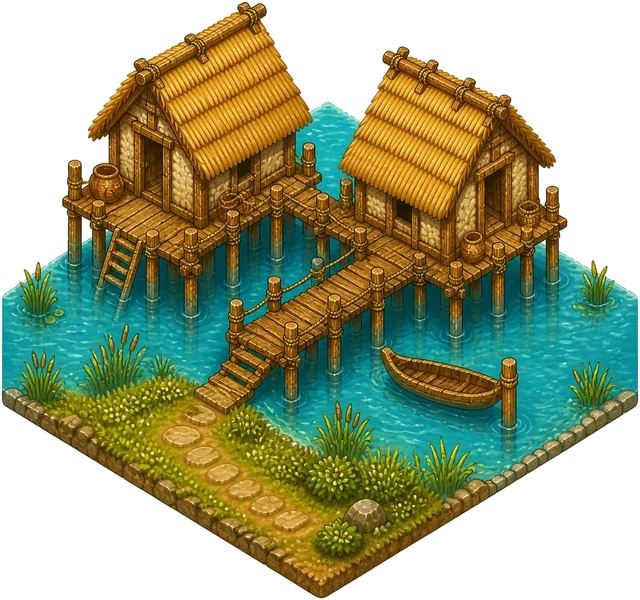
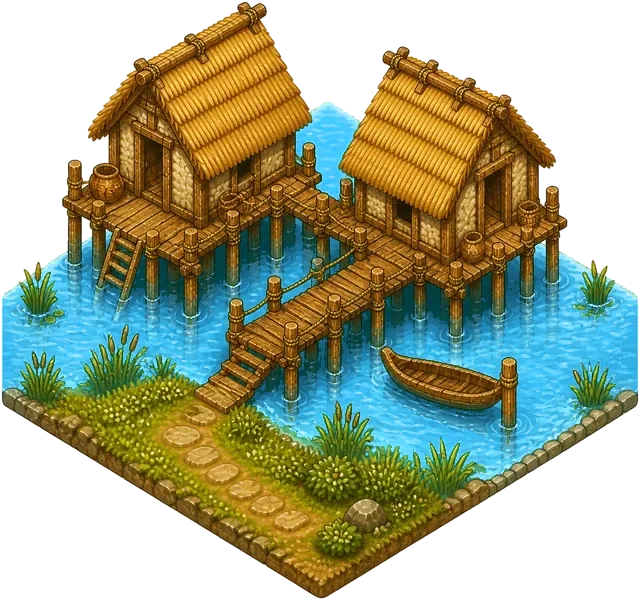
Epochia 131: Wasser in den Gebäudebildern hat die Farbe des Flusses (neu/tools/wasser-farbe.py)
Wunsch Emin: Pfahlbau, Tongrube, Lehmgrube, Zinnwäscherin und Fischerhaus
mit allen Drehungen und Winterbildern auf die Flussfarbe umgefärbt.

Claude-Session: https://claude.ai/code/session_01W1n1hdvEnuKJoocRNGs93d

Changed region(s): [[0.375, 0.39, 1.0, 0.81], [0.0, 0.36, 0.5312, 0.66], [0.4375, 0.15, 0.5625, 0.33]]

diff --git a/neu/index.html b/neu/index.html
@@ -3,7 +3,7 @@
 <head>
   <meta charset="UTF-8">
   <meta name="viewport" content="width=device-width, initial-scale=1, maximum-scale=1, user-scalable=no, viewport-fit=cover">
-  <meta name="app-version" content="130">
+  <meta name="app-version" content="131">
   <meta name="theme-color" content="#3d7a2a">
   <meta name="color-scheme" content="only light">
   <meta name="apple-mobile-web-app-capable" content="yes">

diff --git a/neu/js/daten.js b/neu/js/daten.js
@@ -2,7 +2,7 @@
 // Epochia – alle Spieldaten (Zahlen zum Feinjustieren stehen hier oben, die Logik liest nur daraus).
 // Pläne: docs/konzept-neu.md und docs/epoche-1-steinzeit.md
 
-const APP_VERSION = 130;
+const APP_VERSION = 131;
 
 const CONFIG = {
   mapSize: 512,           // Felder je Seite, zentral änderbar (Vielfaches von 16; 64 bis Version 21, 128 bis Version 54 – alte Karten liegen in der Mitte)

diff --git a/neu/service-worker.js b/neu/service-worker.js
@@ -1,6 +1,6 @@
 // Epochia – offline spielen. Bei Änderungen die Versionsnummer erhöhen (gleiche Nummer wie
 // APP_VERSION in js/daten.js und <meta name="app-version"> in index.html).
-const CACHE = 'v130';
+const CACHE = 'v131';
 const ASSETS = [
   './',
   'index.html',

diff --git a/neu/tools/wasser-farbe.py b/neu/tools/wasser-farbe.py
@@ -1,0 +1,40 @@
+# Epochia: Wasser in einem Gebäudebild an die Flussfarbe im Spiel angleichen (Wunsch Emin, 07.11.2026).
+# Färbt nur Pixel um, die wie Wasser aussehen (blau bis türkis, kräftig genug), und behält Hell-Dunkel und Glanzlichter.
+#   python3 neu/tools/wasser-farbe.py bilder/epochia/gebaeude/pfahlbau/1-pfahlbau.webp [weitere.webp …]
+# Zielfarbe ist der Mittelwert des Wassers in bilder/epochia/gelaende/wasser.webp.
+import sys, colorsys
+from PIL import Image
+
+TEXTUR = 'bilder/epochia/gelaende/wasser.webp'
+
+def ist_wasser(h, s, v):
+    return 0.43 <= h <= 0.62 and s >= 0.28 and v >= 0.30   # Farbton etwa 155°–225°
+
+def mittel(pixel):
+    n = len(pixel) or 1
+    return [sum(p[i] for p in pixel) / n for i in range(3)]
+
+def hsv_liste(im):
+    return [colorsys.rgb_to_hsv(r / 255, g / 255, b / 255) for r, g, b, a in im.getdata() if a > 200]
+
+ziel = mittel([p for p in hsv_liste(Image.open(TEXTUR).convert('RGBA')) if ist_wasser(*p)])
+
+for datei in sys.argv[1:]:
+    im = Image.open(datei).convert('RGBA')
+    px = im.load()
+    w, h = im.size
+    wasser = [(x, y) for y in range(h) for x in range(w)
+              if px[x, y][3] > 0 and ist_wasser(*colorsys.rgb_to_hsv(*(c / 255 for c in px[x, y][:3])))]
+    if not wasser:
+        print(datei, 'kein Wasser gefunden'); continue
+    ist = mittel([colorsys.rgb_to_hsv(*(c / 255 for c in px[x, y][:3])) for x, y in wasser])
+    fs, fv = ziel[1] / ist[1], ziel[2] / ist[2]
+    for x, y in wasser:
+        r, g, b, a = px[x, y]
+        hh, ss, vv = colorsys.rgb_to_hsv(r / 255, g / 255, b / 255)
+        hh = ziel[0] + (hh - ist[0]) * 0.3            # Farbton auf den Fluss, kleine Unterschiede bleiben
+        ss, vv = min(1, ss * fs), min(1, vv * fv)
+        r, g, b = colorsys.hsv_to_rgb(hh % 1, ss, vv)
+        px[x, y] = (round(r * 255), round(g * 255), round(b * 255), a)
+    im.save(datei, quality=82, method=6)
+    print(datei, f'{len(wasser)} Wasserpixel angepasst')
